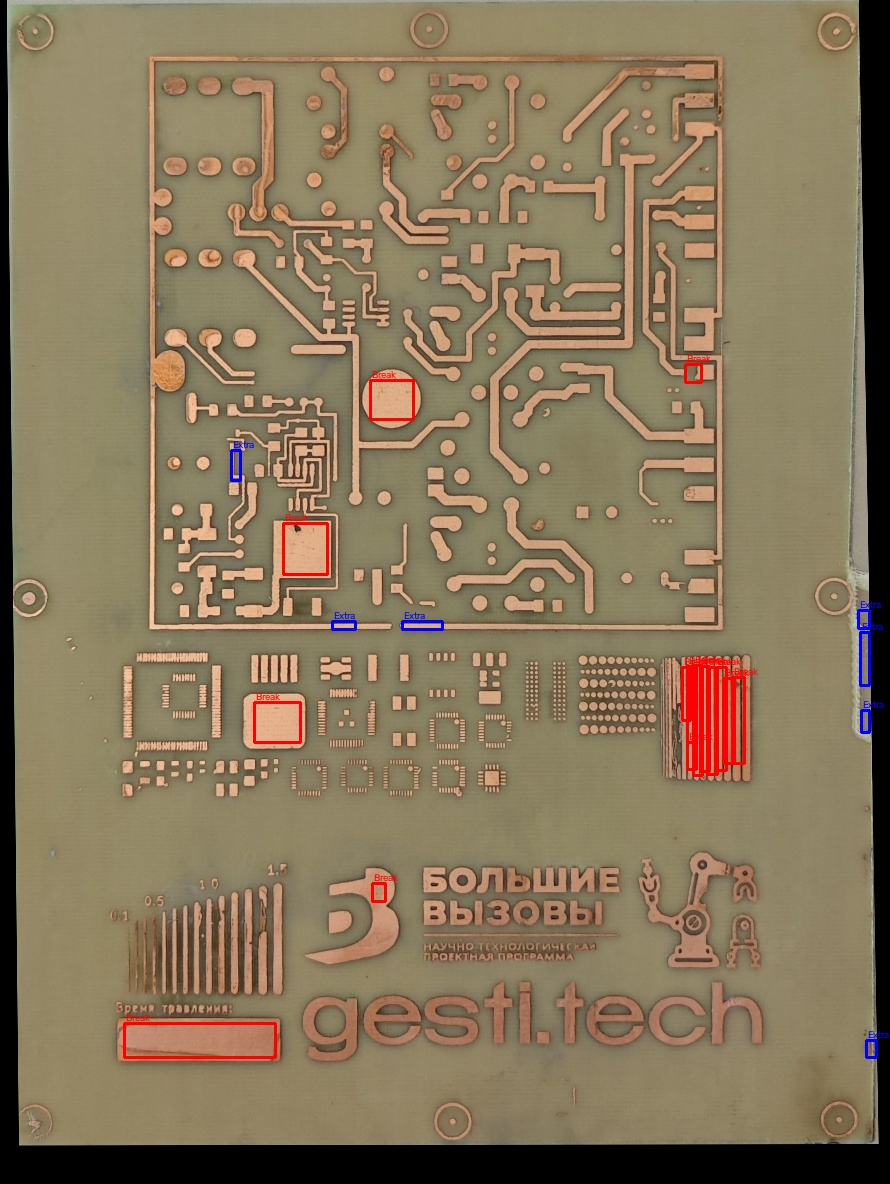
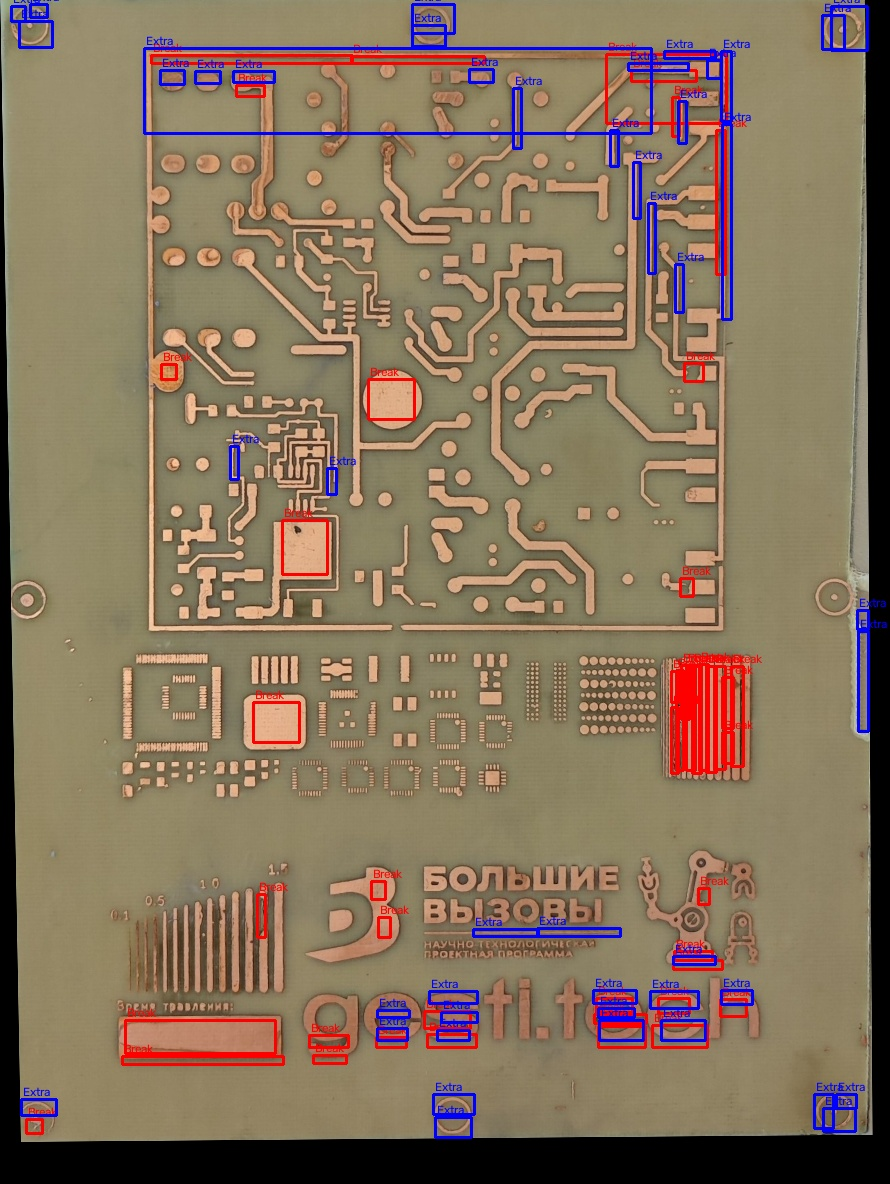
ПАМИДОР

diff --git a/Code/files/ne_main.py b/Code/files/ne_main.py
@@ -3,203 +3,76 @@ import numpy as np
 import os
 
 # ==========================================
-# ⚙️ БЛОК НАСТРОЕК (ПЕРЕМЕННЫЕ И КОНСТАНТЫ)
+# ⚙️ БЛОК НАСТРОЕК
 # ==========================================
+INPUT_GERBER = 'GERBER.png'
+INPUT_PCB = 'PCB.jpg'
+# INPUT_PCB = 'PCB7.png'
+OUTPUT_DIR_ROOT = 'debugging_inspection'
 
-INPUT_GERBER = 'GERBER.png'                         # Исходный эталонный шаблон
-INPUT_PCB = 'PCB.jpg'                               # Фото вытравленной платы
-OUTPUT_DIR_ROOT = 'debugging_inspection'            # Папка для результатов
+def align_images_orb(img_gerber, img_pcb):
+    """
+    Автоматическое выравнивание платы по герберу с помощью ключевых точек ORB.
+    Устойчиво к поворотам на 90/180 градусов, масштабированию и растяжениям.
+    """
+    # Переводим в оттенки серого
+    gray_gerber = cv2.cvtColor(img_gerber, cv2.COLOR_BGR2GRAY)
+    gray_pcb = cv2.cvtColor(img_pcb, cv2.COLOR_BGR2GRAY)
 
-# --- Параметры адаптивной бинаризации (для поиска меток) ---
-ADAPTIVE_BLOCK_SIZE = 61  
-ADAPTIVE_C = 10           
-
-# --- Фильтрация контуров меток ---
-MIN_CIRCULARITY = 0.4     
-MAX_CIRCULARITY = 2.0     
-MIN_AREA_COEFF = 0.01     
-MAX_AREA_COEFF = 0.08     
-
-# --- Параметры Хафа для меток ---
-HOUGH_DP = 1.2                               
-HOUGH_PARAM1 = 80                            
-HOUGH_ACCUM_THRESHOLDS = (45, 35, 25)        
-HOUGH_MIN_DIST_COEFF = 0.08                  
-HOUGH_MIN_RADIUS_COEFF = 0.012               
-HOUGH_MAX_RADIUS_COEFF = 0.04                
-
-MERGE_MIN_DIST_COEFF = 0.02                  
-BOARD_MIN_AREA_COEFF = 0.15                  
-MORPH_KERNEL_BASE_COEFF = 0.02               
-MORPH_KERNEL_MIN_SIZE = 15                   
-
-CORNER_TOLERANCE_COEFF = 0.16                
-SIDE_TOLERANCE_COEFF = 0.07                  
-CORNER_NAMES = {"Верхний-Левый", "Верхний-Правый", "Нижний-Левый", "Нижний-Правый"}
-
-
-# =====================================================================
-# 📐 БЛОК АНАЛИЗА И ПОИСКА МЕТОК (ТВОЯ БАЗОВАЯ ЛОГИКА)
-# =====================================================================
-def detect_circles(img):
-    h, w = img.shape[:2]
-    gray = cv2.cvtColor(img, cv2.COLOR_BGR2GRAY)
-
-    blur_kernel = int(w / 400)
-    if blur_kernel % 2 == 0:
-        blur_kernel += 1
-    blur_kernel = max(3, blur_kernel)
-    gray_blurred = cv2.medianBlur(gray, blur_kernel)
-
-    pad = ADAPTIVE_BLOCK_SIZE
-    gray_padded = cv2.copyMakeBorder(gray_blurred, pad, pad, pad, pad, cv2.BORDER_REFLECT101)
-    thresh_p = cv2.adaptiveThreshold(
-        gray_padded, 255, cv2.ADAPTIVE_THRESH_MEAN_C,
-        cv2.THRESH_BINARY_INV, ADAPTIVE_BLOCK_SIZE, ADAPTIVE_C
-    )
-    thresh = thresh_p[pad:pad + h, pad:pad + w]
-
-    contours, _ = cv2.findContours(thresh, cv2.RETR_TREE, cv2.CHAIN_APPROX_SIMPLE)
-    min_area = int((w * MIN_AREA_COEFF) ** 2)
-    max_area = int((w * MAX_AREA_COEFF) ** 2)
-
-    detected = []
-    for c in contours:
-        area = cv2.contourArea(c)
-        perimeter = cv2.arcLength(c, True)
-        if perimeter == 0:
-            continue
-        circularity = 4 * np.pi * area / (perimeter ** 2)
-        if MIN_CIRCULARITY < circularity < MAX_CIRCULARITY and min_area < area < max_area:
-            M = cv2.moments(c)
-            if M["m00"] != 0:
-                cX = int(M["m10"] / M["m00"])
-                cY = int(M["m01"] / M["m00"])
-                radius = int(np.sqrt(area / np.pi))
-                detected.append((cX, cY, radius))
-
-    gray_for_hough = cv2.GaussianBlur(gray_blurred, (9, 9), 2)
-    minR = int(w * HOUGH_MIN_RADIUS_COEFF)
-    maxR = int(w * HOUGH_MAX_RADIUS_COEFF)
-    min_hough_dist = int(w * HOUGH_MIN_DIST_COEFF)
-
-    for accum_thresh in HOUGH_ACCUM_THRESHOLDS:
-        circles = cv2.HoughCircles(
-            gray_for_hough, cv2.HOUGH_GRADIENT, dp=HOUGH_DP, minDist=min_hough_dist,
-            param1=HOUGH_PARAM1, param2=accum_thresh, minRadius=minR, maxRadius=maxR
-        )
-        if circles is not None:
-            for c in circles[0]:
-                detected.append((int(c[0]), int(c[1]), int(c[2])))
-
-    merged = []
-    min_dist = w * MERGE_MIN_DIST_COEFF
-    for d in detected:
-        if not any(np.hypot(d[0] - m[0], d[1] - m[1]) < min_dist for m in merged):
-            merged.append(d)
-
-    return merged
-
-def detect_board_rect(img):
-    h, w = img.shape[:2]
-    gray = cv2.cvtColor(img, cv2.COLOR_BGR2GRAY)
-    hsv = cv2.cvtColor(img, cv2.COLOR_BGR2HSV)
-    sat = hsv[:, :, 1]
-
-    _, sat_mask = cv2.threshold(sat, 0, 255, cv2.THRESH_BINARY + cv2.THRESH_OTSU)
-    _, dark_mask = cv2.threshold(gray, 0, 255, cv2.THRESH_BINARY_INV + cv2.THRESH_OTSU)
-    combo = cv2.bitwise_or(sat_mask, dark_mask)
-
-    k = max(MORPH_KERNEL_MIN_SIZE, int(w * MORPH_KERNEL_BASE_COEFF))
-    kernel = np.ones((k, k), np.uint8)
-    combo = cv2.morphologyEx(combo, cv2.MORPH_CLOSE, kernel)
-    combo = cv2.morphologyEx(combo, cv2.MORPH_OPEN, kernel)
-
-    contours, _ = cv2.findContours(combo, cv2.RETR_EXTERNAL, cv2.CHAIN_APPROX_SIMPLE)
-    if not contours:
-        return None
-    c = max(contours, key=cv2.contourArea)
-    if cv2.contourArea(c) < BOARD_MIN_AREA_COEFF * w * h:
-        return None
-
-    rect = cv2.minAreaRect(c)
-    return cv2.boxPoints(rect)
-
-def rect_target_positions(corners):
-    corners = np.array(corners, dtype=np.float64)
-    center = corners.mean(axis=0)
-    angles = np.arctan2(corners[:, 1] - center[1], corners[:, 0] - center[0])
-    ordered = corners[np.argsort(angles)]
+    # Инициализируем детектор ORB (ищем до 5000 точек для высокой точности)
+    orb = cv2.ORB_create(nfeatures=5000)
     
-    start = np.argmin(ordered[:, 0] + ordered[:, 1])
-    ordered = np.roll(ordered, -start, axis=0)
+    kp_gerber, des_gerber = orb.detectAndCompute(gray_gerber, None)
+    kp_pcb, des_pcb = orb.detectAndCompute(gray_pcb, None)
 
-    names_corners = ["Верхний-Левый", "Верхний-Правый", "Нижний-Правый", "Нижний-Левый"]
-    pts = {name: tuple(ordered[i]) for i, name in enumerate(names_corners)}
-    pts["Верхний-Центр"] = tuple((ordered[0] + ordered[1]) / 2)
-    pts["Правый-Центр"] = tuple((ordered[1] + ordered[2]) / 2)
-    pts["Нижний-Центр"] = tuple((ordered[2] + ordered[3]) / 2)
-    pts["Левый-Центр"] = tuple((ordered[3] + ordered[0]) / 2)
-    return pts
+    if des_gerber is None or des_pcb is None:
+        raise ValueError("Не удалось извлечь дескрипторы точек. Проверь входные изображения.")
 
-def match_zones(target_positions, circles, diag):
-    result = {}
-    for name, (tx, ty) in target_positions.items():
-        coeff = CORNER_TOLERANCE_COEFF if name in CORNER_NAMES else SIDE_TOLERANCE_COEFF
-        tolerance = diag * coeff
-        best, best_dist = None, None
-        for (cx, cy, r) in circles:
-            dist = np.hypot(cx - tx, cy - ty)
-            if dist < tolerance and (best_dist is None or dist < best_dist):
-                best, best_dist = (cx, cy, r), dist
-        if best is not None:
-            result[name] = best
-    return result
-
-def get_alignment_points(img):
-    h, w = img.shape[:2]
-    circles = detect_circles(img)
-    board_corners = detect_board_rect(img)
+    # Матчинг точек через Hamming distance
+    bf = cv2.BFMatcher(cv2.NORM_HAMMING, crossCheck=True)
+    matches = bf.match(des_gerber, des_pcb)
     
-    full_frame_corners = np.array([[0, 0], [w, 0], [w, h], [0, h]], dtype=np.float64)
-    candidates = [("весь кадр", full_frame_corners)]
-    if board_corners is not None:
-        candidates.append(("контур платы", board_corners))
+    # Сортируем по расстоянию (лучшие совпадения в начале)
+    matches = sorted(matches, key=lambda x: x.distance)
 
-    best_matches = {}
-    for label, corners in candidates:
-        targets = rect_target_positions(corners)
-        diag = np.hypot(*(np.max(corners, axis=0) - np.min(corners, axis=0)))
-        matches = match_zones(targets, circles, diag)
-        if len(matches) > len(best_matches):
-            best_matches = matches
-    return best_matches
+    # Берем топ-100 лучших совпадений
+    good_matches = matches[:100]
 
+    if len(good_matches) < 10:
+        raise ValueError(f"Слишком мало общих точек соприкосновения ({len(good_matches)}). Выравнивание невозможно.")
 
-# =====================================================================
-# 🛠️ НОВЫЙ БЛОК: СЕГМЕНТАЦИЯ И КОНТРОЛЬ С ЗАНИЖЕННЫМ ПОРОГОМ
-# =====================================================================
+    # Собираем координаты совпавших точек
+    pts_gerber = np.float32([kp_gerber[m.queryIdx].pt for m in good_matches]).reshape(-1, 1, 2)
+    pts_pcb = np.float32([kp_pcb[m.trainIdx].pt for m in good_matches]).reshape(-1, 1, 2)
+
+    # Находим матрицу гомографии с фильтрацией выбросов (RANSAC)
+    H, mask = cv2.findHomography(pts_pcb, pts_gerber, cv2.RANSAC, 5.0)
+    
+    # Трансформируем фото платы к геометрии гербера
+    gh, gw = img_gerber.shape[:2]
+    img_pcb_aligned = cv2.warpPerspective(img_pcb, H, (gw, gh))
+    
+    return img_pcb_aligned
 
 def binarize_pcb(img_aligned):
-    """ Выделение меди на желто-зеленом текстолите через R-G разность. """
+    """ Адаптивное выделение меди на основе локального контраста """
     b, g, r = cv2.split(img_aligned)
     
-    # Извлекаем разность (в меди преобладает красный спектр, в текстолите — зеленый)
+    # Медь сильнее отражает красный канал, подложка — зеленый
     diff = cv2.subtract(r, g)
     diff = cv2.normalize(diff, None, 0, 255, cv2.NORM_MINMAX)
     
-    # Локальный порог Гаусса для вырезки проводников
+    # Бинаризация Гаусса
     thresh = cv2.adaptiveThreshold(
         diff, 255, cv2.ADAPTIVE_THRESH_GAUSSIAN_C, 
         cv2.THRESH_BINARY, 51, -15
     )
     
-    # Фильтруем мелкие шумы матрицы камеры
+    # Убираем шумы
     kernel = cv2.getStructuringElement(cv2.MORPH_RECT, (3, 3))
     thresh = cv2.morphologyEx(thresh, cv2.MORPH_OPEN, kernel)
     thresh = cv2.morphologyEx(thresh, cv2.MORPH_CLOSE, kernel)
     return thresh
-
 
 def inspect_pcb(gerber_path, pcb_path, output_dir):
     os.makedirs(output_dir, exist_ok=True)
@@ -208,83 +81,63 @@ def inspect_pcb(gerber_path, pcb_path, output_dir):
     img_pcb = cv2.imread(pcb_path)
     
     if img_gerber is None or img_pcb is None:
-        print("[ОШИБКА] Не найдены входные изображения.")
+        print("[ОШИБКА] Проверь пути к файлам GERBER.png и PCB.jpg")
         return
 
-    print("[1/4] Сопоставление реперных точек...")
-    matches_gerber = get_alignment_points(img_gerber)
-    matches_pcb = get_alignment_points(img_pcb)
-
-    common_keys = set(matches_gerber.keys()).intersection(set(matches_pcb.keys()))
-    if len(common_keys) < 4:
-        print(f"[ОШИБКА] Найдено мало общих реперных меток ({len(common_keys)}). Нужно >= 4.")
+    print("[1/3] Поиск фич и геометрическое выравнивание слоев...")
+    try:
+        img_pcb_aligned = align_images_orb(img_gerber, img_pcb)
+        cv2.imwrite(os.path.join(output_dir, 'step1_pcb_aligned.jpg'), img_pcb_aligned)
+    except Exception as e:
+        print(f"[КРИТИЧЕСКАЯ ОШИБКА ВЫРАВНИВАНИЯ]: {e}")
         return
 
-    # Подготовка массивов точек для гомографии
-    pts_gerber = np.array([[matches_gerber[k][0], matches_gerber[k][1]] for k in common_keys], dtype=np.float32)
-    pts_pcb = np.array([[matches_pcb[k][0], matches_pcb[k][1]] for k in common_keys], dtype=np.float32)
-
-    print("[2/4] Геометрическое выравнивание перспективы...")
-    H, _ = cv2.findHomography(pts_pcb, pts_gerber, cv2.RANSAC, 5.0)
-    gh, gw = img_gerber.shape[:2]
-    img_pcb_aligned = cv2.warpPerspective(img_pcb, H, (gw, gh))
-    cv2.imwrite(os.path.join(output_dir, 'step1_pcb_aligned.jpg'), img_pcb_aligned)
-
-    print("[3/4] Поканальная бинаризация слоев меди...")
+    print("[2/3] Бинаризация и сегментация меди...")
     gerber_gray = cv2.cvtColor(img_gerber, cv2.COLOR_BGR2GRAY)
-    
-    # На GERBER.png фон черный (0), дорожки белые (255)
     _, gerber_bin = cv2.threshold(gerber_gray, 127, 255, cv2.THRESH_BINARY)
     
     pcb_bin = binarize_pcb(img_pcb_aligned)
     cv2.imwrite(os.path.join(output_dir, 'step2_pcb_binarized.jpg'), pcb_bin)
 
-    # --- СНИЖЕНИЕ ЧУВСТВИТЕЛЬНОСТИ ПО КРАЯМ ДОРОЖЕК ---
-    # Увеличиваем буферную маску до 15x15 пикселей, чтобы прощать плате легкие микросдвиги
+    # Буферная маска 15x15 (сглаживает мелкие сдвиги на краях дорожек)
     kernel_roi = cv2.getStructuringElement(cv2.MORPH_RECT, (15, 15))
     roi_mask = cv2.dilate(gerber_bin, kernel_roi)
 
-    # Анализируем структуры исключительно внутри зоны трассировки
     gerber_active = cv2.bitwise_and(gerber_bin, roi_mask)
     pcb_active = cv2.bitwise_and(pcb_bin, roi_mask)
 
-    print("[4/4] Локальный дифференциальный анализ дефектов...")
-    # Очистка маски дефектов от мелкозернистого шума (4x4)
-    kernel_clean = cv2.getStructuringElement(cv2.MORPH_RECT, (4, 4))
+    print("[3/3] Дифференциальный анализ (Обрывы и Лишние фрагменты)...")
+    kernel_clean = cv2.getStructuringElement(cv2.MORPH_RECT, (3, 3))
     
-    # ОБРЫВЫ / ПЕРЕТРАВ (В Gerber есть, на плате нет)
+    # ОБРЫВЫ (В шаблоне есть, на плате нет)
     missing_copper = cv2.bitwise_and(gerber_active, cv2.bitwise_not(pcb_active))
     missing_copper = cv2.morphologyEx(missing_copper, cv2.MORPH_OPEN, kernel_clean)
 
-    # ЛИШНЯЯ МЕДЬ / КРАТЕРЫ (На плате есть, в Gerber нет)
+    # ЛИШНИЕ ФРАГМЕНТЫ (На плате есть, в шаблоне нет)
     excess_copper = cv2.bitwise_and(pcb_active, cv2.bitwise_not(gerber_active))
     excess_copper = cv2.morphologyEx(excess_copper, cv2.MORPH_OPEN, kernel_clean)
 
-    # Копия для отрисовки дефектов
     output_visual = img_pcb_aligned.copy()
+    MIN_DEFECT_AREA = 50  # Фильтр пиксельной грязи (игнорируем все что меньше 50 пикселей)
 
-    # --- ЗАНИЖЕНИЕ ПОРОГА ПО ПЛОЩАДИ (ФИЛЬТР ШУМА И ГРЯЗИ) ---
-    MIN_DEFECT_AREA = 50 # Игнорировать любые аномалии площадью меньше 50 пикселей
-
-    # Поиск и маркировка ОБРЫВОВ (КРАСНЫЕ КВАДРАТЫ)
+    # Отрисовка ОБРЫВОВ (Красные рамки)
     contours_missing, _ = cv2.findContours(missing_copper, cv2.RETR_EXTERNAL, cv2.CHAIN_APPROX_SIMPLE)
     for c in contours_missing:
         if cv2.contourArea(c) > MIN_DEFECT_AREA:  
             x, y, wc, hc = cv2.boundingRect(c)
             cv2.rectangle(output_visual, (x - 2, y - 2), (x + wc + 2, y + hc + 2), (0, 0, 255), 2)
-            cv2.putText(output_visual, "Break", (x, y - 4), cv2.FONT_HERSHEY_SIMPLEX, 0.35, (0, 0, 255), 1)
+            cv2.putText(output_visual, "Break", (x, y - 5), cv2.FONT_HERSHEY_SIMPLEX, 0.4, (0, 0, 255), 1)
 
-    # Поиск и маркировка ЛИШНЕЙ МЕДИ (СИНИЕ КВАДРАТЫ)
+    # Отрисовка ЛИШНИХ ФРАГМЕНТОВ (Синие рамки)
     contours_excess, _ = cv2.findContours(excess_copper, cv2.RETR_EXTERNAL, cv2.CHAIN_APPROX_SIMPLE)
     for c in contours_excess:
         if cv2.contourArea(c) > MIN_DEFECT_AREA:
             x, y, wc, hc = cv2.boundingRect(c)
             cv2.rectangle(output_visual, (x - 2, y - 2), (x + wc + 2, y + hc + 2), (255, 0, 0), 2)
-            cv2.putText(output_visual, "Extra", (x, y - 4), cv2.FONT_HERSHEY_SIMPLEX, 0.35, (255, 0, 0), 1)
+            cv2.putText(output_visual, "Extra", (x, y - 5), cv2.FONT_HERSHEY_SIMPLEX, 0.4, (255, 0, 0), 1)
 
     cv2.imwrite(os.path.join(output_dir, 'PCB_INSPECTION_RESULT.jpg'), output_visual)
-    print(f"\n[УСПЕХ] Контроль завершен. Грубые дефекты сохранены в: '{output_dir}/PCB_INSPECTION_RESULT.jpg'")
-
+    print(f"\n[ГОТОВО] Результат инспекции сохранен в: '{output_dir}/PCB_INSPECTION_RESULT.jpg'")
 
 if __name__ == "__main__":
     inspect_pcb(INPUT_GERBER, INPUT_PCB, OUTPUT_DIR_ROOT)